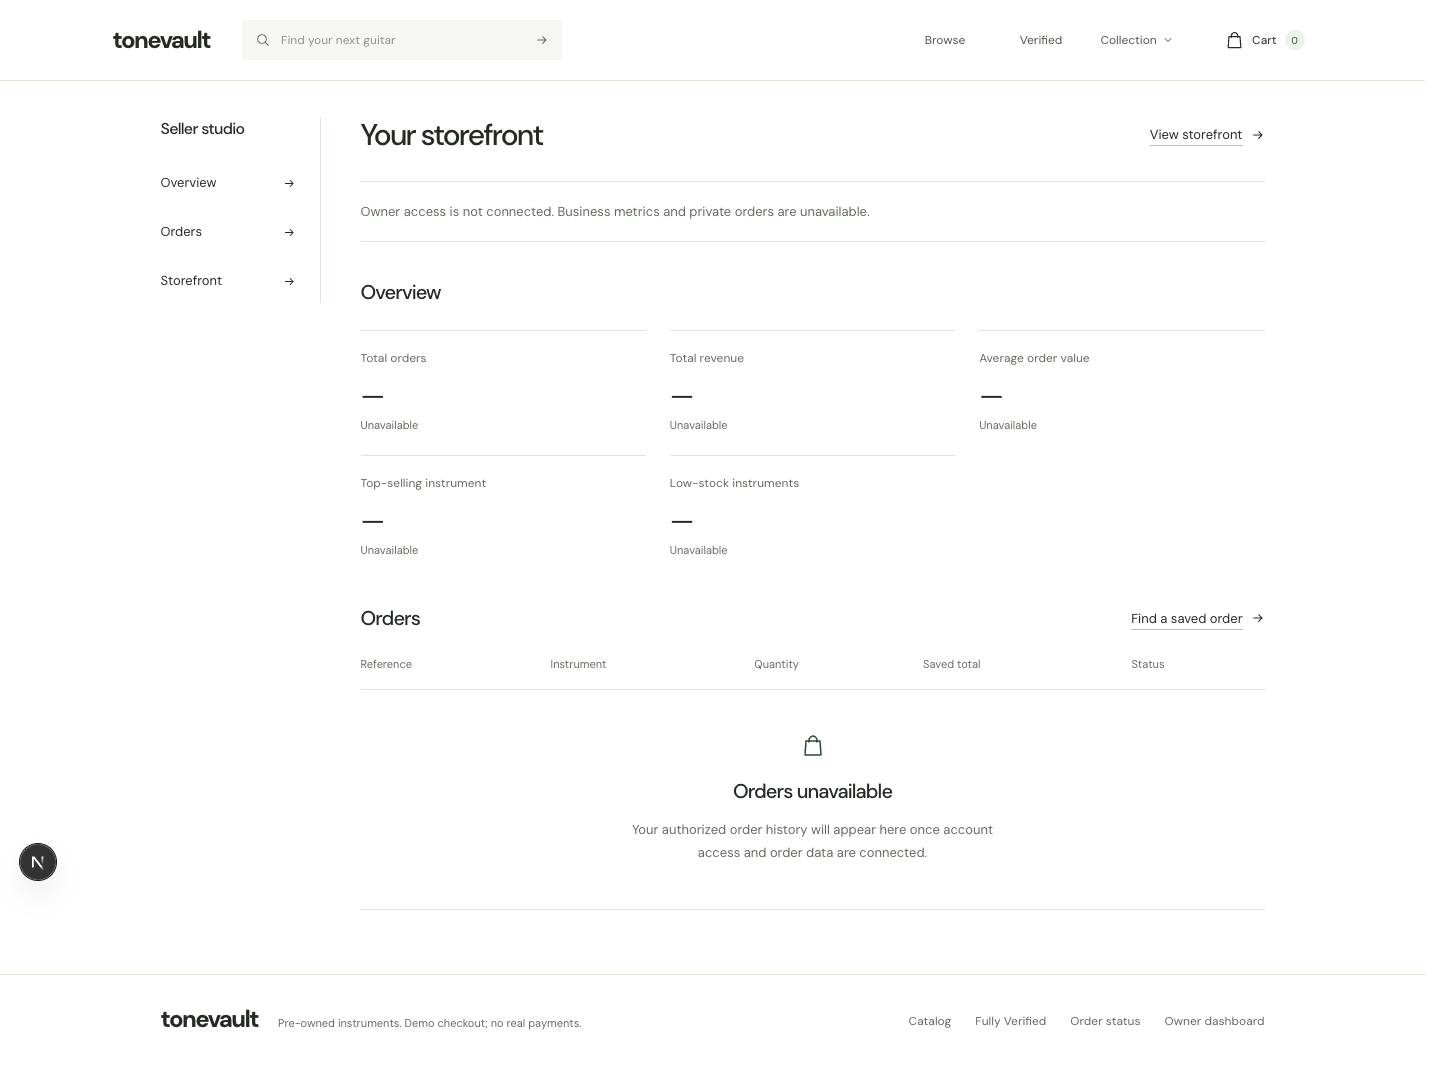
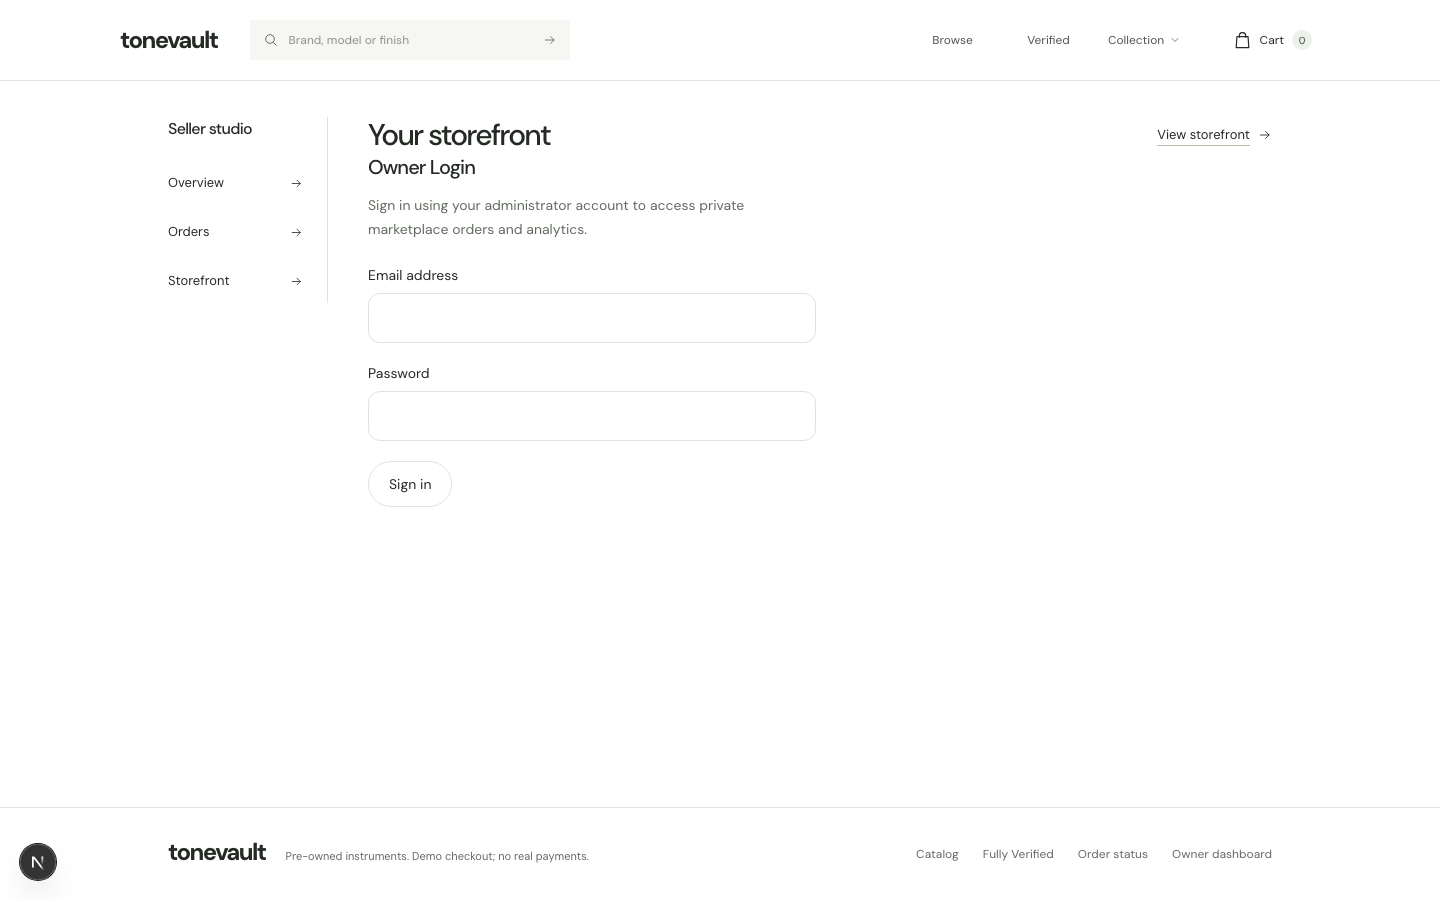
Update owner dashboard review evidence and documentation

diff --git a/docs/business.md b/docs/business.md
@@ -143,3 +143,5 @@ The following decisions are based on the integrated Owner Dashboard and the save
 - **Platform revenue depends on saved revenue records.** The dashboard sums the stored `platform_revenue_amount` values rather than estimating revenue from total order value. Historical orders with zero recorded platform revenue may therefore not reflect revenue that was never saved in the database.
 - **Low-stock threshold:** The current implementation treats available listings with 2 or fewer units as low stock. This is a provisional threshold and should be confirmed with the group before final deployment.
 - **Results are a snapshot.** These figures describe the saved data observed during testing and should not be interpreted as permanent totals or market-wide demand.
+- **Test-data limitations:** The observed Fender Telecaster sales count of 2 units and the 6 low-stock listings reflect the saved dataset used during testing. They should not be treated as reliable evidence of market-wide demand. Some listings, including the Jazzmaster, SG Standard, and Stratocasters, have saved orders while still showing one unit available. These figures may reflect test-order creation before inventory updates or repeated seed data.
+- **Historical platform revenue:** Five of the six observed orders predate the pricing snapshot used by the current revenue calculation and have ₱0 recorded platform revenue. The ₱24,000 dashboard figure therefore reflects saved revenue records, not necessarily all revenue that may have been earned historically.

diff --git a/docs/routes.md b/docs/routes.md
@@ -124,10 +124,22 @@ Success (200):
 
 `{ "ok": true, "metrics": { ... } }`
 
-Missing or invalid authentication returns 401; an authenticated non-admin returns 403. Configuration or database failures return 500.
+The metrics are calculated as follows:
 
-These endpoints expose private owner data and must not be treated as public catalog endpoints. Sample mode does not display owner metrics or sample sales figures.
+| Metric | Calculation |
+| --- | --- |
+| Total orders | Number of saved orders |
+| Total order value | Sum of saved `total_amount` values |
+| Platform revenue | Sum of saved `platform_revenue_amount` values |
+| Average order value | Total order value divided by the number of saved orders; returns 0 when there are no orders |
+| Top-selling guitars | Sum of saved order quantities per product; includes all products tied for the highest quantity |
+| Low-stock listings | Available products with stock at or below the configured threshold, currently 2 units |
 
+Missing or invalid authentication returns 401. An authenticated non-admin returns 403. Supabase configuration or database failures return 500.
+
+Both owner endpoints (`GET /api/orders` and `GET /api/metrics`) require an administrator's Supabase access token in the `Authorization: Bearer <token>` header. They expose private owner data and must not be treated as public catalog endpoints.
+
+Sample mode does not display owner metrics or sample sales figures.
 ## Screens
 
 | Route | State / owner |
